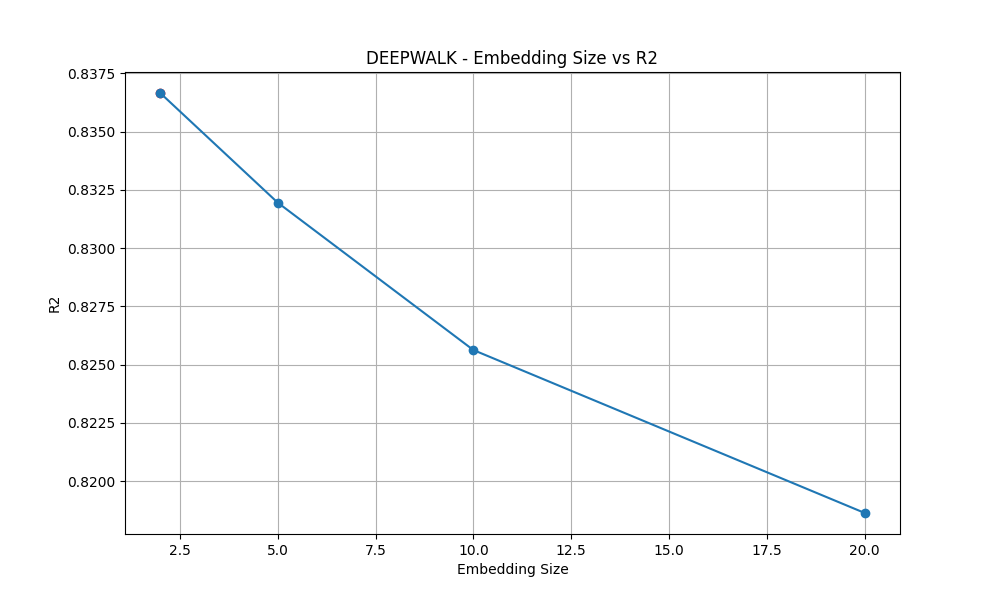
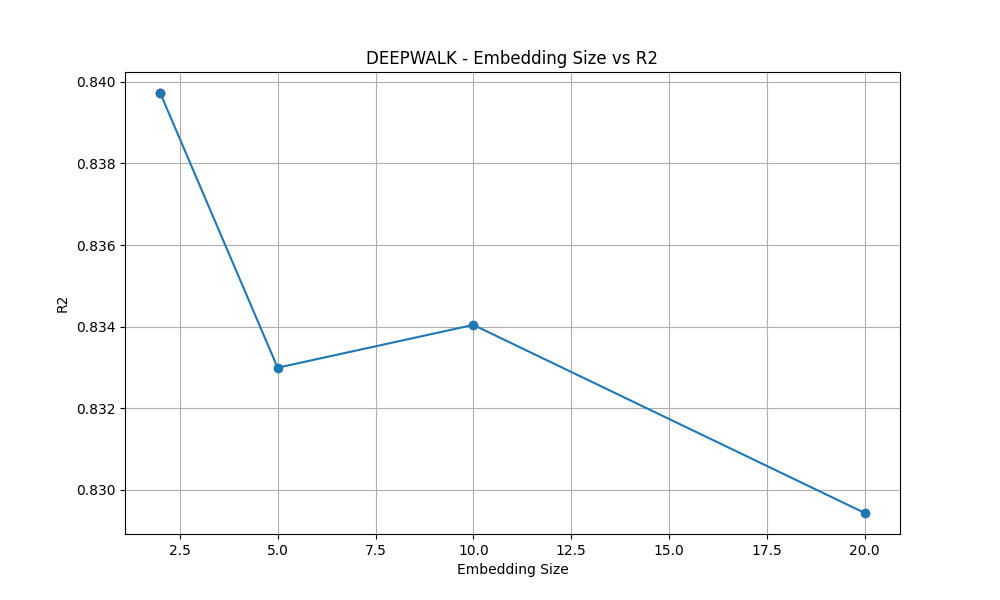
10000 Samples of MHD, k=10

diff --git a/utils.py b/utils.py
@@ -45,18 +45,21 @@ def load_dataset(dataset_name: str):
 
     elif dataset_name == "MHD":
 
-        data= pd.read_excel('data/MHD-housing.xlsx')
-        # Filter the data for the specified region
-        filtered_data = data[(data['longitude'] >= 59.4) & (data['longitude'] <= 59.7) &
-                            (data['latitude'] >= 36.2) & (data['latitude'] <= 36.45)]
-        np.random.seed(42)
-        shuffle_indices = np.random.choice(np.arange(filtered_data.shape[0]), size=5000, replace=False,)
-        df = filtered_data.iloc[shuffle_indices].reset_index(drop=True)
-        df['id'] = df.index  # Add this line to create a unique identifier for each house
+        # data= pd.read_excel('data/MHD-housing.xlsx')
+        # # Filter the data for the specified region
+        # filtered_data = data[(data['longitude'] >= 59.4) & (data['longitude'] <= 59.7) &
+        #                     (data['latitude'] >= 36.2) & (data['latitude'] <= 36.45)]
+        # np.random.seed(42)
+        # shuffle_indices = np.random.choice(np.arange(filtered_data.shape[0]), size=5000, replace=False,)
+        # df = filtered_data.iloc[shuffle_indices].reset_index(drop=True)
+        # df['id'] = df.index  # Add this line to create a unique identifier for each house
 
-        # df = pd.read_csv("data/MHD-housing.csv")
-        # df = df.dropna().reset_index(drop=True)
-        # df['id'] = df.index
+        df = pd.read_excel('data/MHD-housing.xlsx')
+        shuffle_indices = np.random.choice(np.arange(df.shape[0]), size=10000, replace=False,)
+        df = df.iloc[shuffle_indices].reset_index(drop=True)
+        df = df.dropna().reset_index(drop=True)
+        
+        df['id'] = df.index
 
         numeric_features = [
             'area_sq_m', 'age_years',
